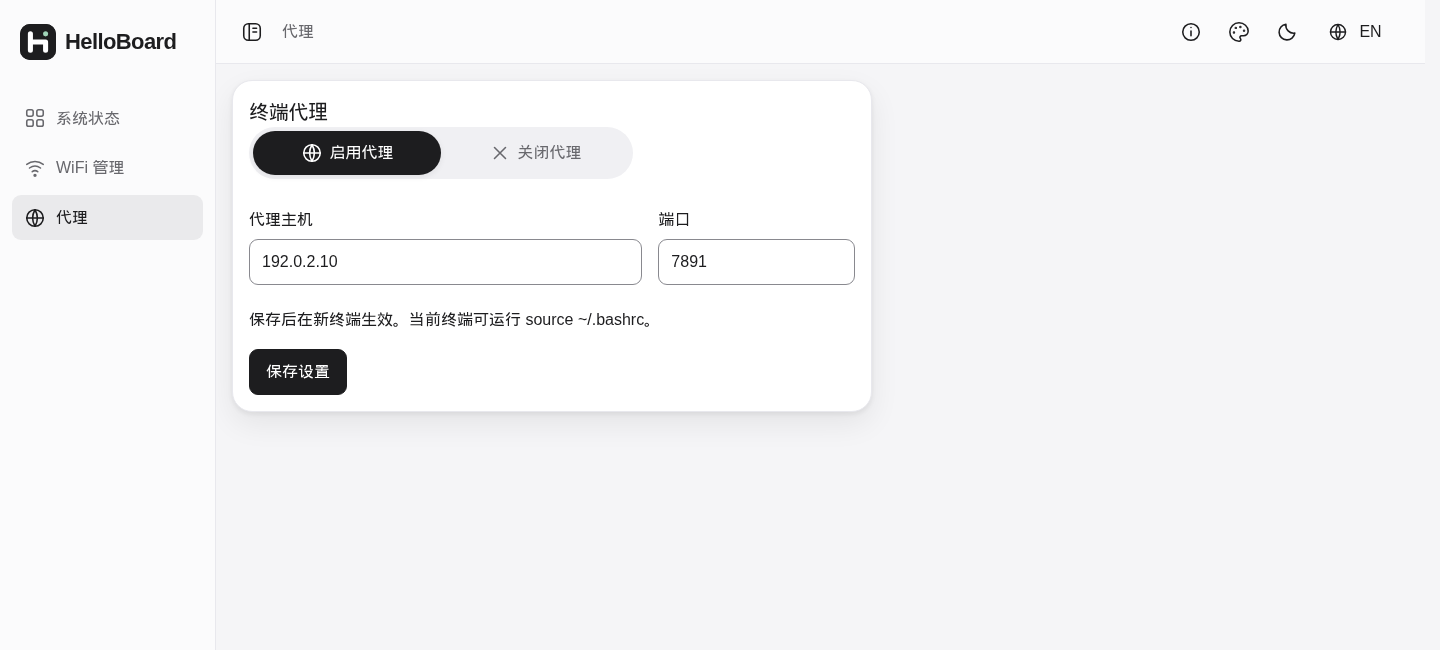
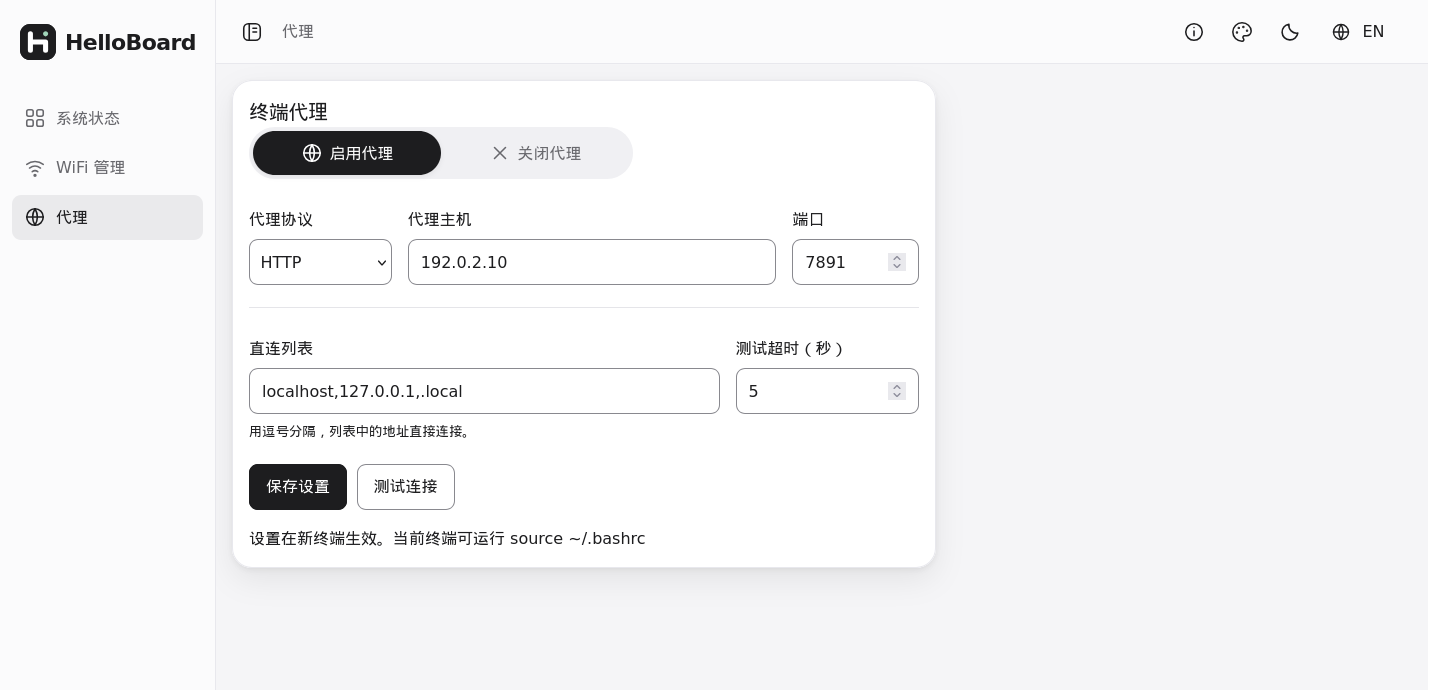
Expand Bash proxy settings and connection testing

diff --git a/templates/proxy.html b/templates/proxy.html
@@ -17,12 +17,32 @@
             {% endfor %}
           </div>
           <div class="proxy-fields">
-            <label><span data-i18n="代理主机">代理主机</span><input id="host" required maxlength="253" value="{{ settings.host }}"></label>
+            {% if settings.protocol is defined %}
+            <label><span data-i18n="代理协议">代理协议</span>
+              <select id="protocol">
+                {% for value, label in [('http', 'HTTP'), ('https', 'HTTPS'), ('socks5h', 'SOCKS5')] %}
+                <option value="{{ value }}"{% if value == settings.protocol %} selected{% endif %}>{{ label }}</option>
+                {% endfor %}
+              </select>
+            </label>
+            {% endif %}
+            <label><span data-i18n="代理主机">代理主机</span><input id="host" maxlength="253" value="{{ settings.host }}" autocomplete="off" spellcheck="false"></label>
             <label><span data-i18n="端口">端口</span><input id="port" type="number" required min="1" max="65535" value="{{ settings.port }}"></label>
           </div>
-          <p class="muted">保存后在新终端生效。当前终端可运行 <code>source ~/.bashrc</code>。</p>
-          <button class="primary-button" type="submit" data-i18n="保存设置">保存设置</button>
-          
+          {% if settings.protocol is defined %}
+          <div class="proxy-advanced">
+            <label><span data-i18n="直连列表">直连列表</span>
+              <input id="bypass" maxlength="512" value="{{ settings.bypass }}" placeholder="localhost,127.0.0.1,.local" aria-describedby="bypass-hint" autocomplete="off" spellcheck="false">
+              <small id="bypass-hint" class="muted" data-i18n="用逗号分隔，列表中的地址直接连接。">用逗号分隔，列表中的地址直接连接。</small>
+            </label>
+            <label><span data-i18n="测试超时（秒）">测试超时（秒）</span><input id="timeout" type="number" required min="3" max="10" value="{{ settings.timeout }}"></label>
+          </div>
+          {% endif %}
+          <div class="proxy-actions">
+            <button class="primary-button" type="submit" data-i18n="保存设置">保存设置</button>
+            <button id="test-connection" class="secondary-button" type="button" data-i18n="测试连接">测试连接</button>
+          </div>
+          <p class="muted"><span data-i18n="设置在新终端生效。当前终端可运行">设置在新终端生效。当前终端可运行</span> <code>source ~/.bashrc</code></p>
         </form>
       </section>
     </main></div>
@@ -39,6 +59,6 @@
       <p id="auth-error" role="alert" class="field-error"></p>
       <div class="dialog-actions"><button type="button" id="cancel" class="secondary-button" data-i18n="取消">取消</button><button type="submit" class="primary-button" data-i18n="验证">验证</button></div>
     </form></dialog>
-    <dialog id="side-panel" class="side-panel"><div class="dialog-heading"><h2 id="panel-title"></h2><button type="button" id="panel-close" class="icon-button" aria-label="关闭">×</button></div><section id="help-content" class="drawer-content">代理设置应用于宿主机用户的 Bash。</section>{% include 'layout_options.html' %}</dialog>
+    <dialog id="side-panel" class="side-panel"><div class="dialog-heading"><h2 id="panel-title"></h2><button type="button" id="panel-close" class="icon-button" aria-label="关闭">×</button></div><section id="help-content" class="drawer-content" data-i18n="代理设置应用于宿主机用户的 Bash。">代理设置应用于宿主机用户的 Bash。</section>{% include 'layout_options.html' %}</dialog>
   </body>
 </html>

diff --git a/static/proxy.js b/static/proxy.js
@@ -31,19 +31,31 @@ async function post(path, body, signal) {
   return data;
 }
 let testRequest;
+let pendingSave;
+const form = el("proxy-form");
+const saveButton = form.querySelector("button[type=submit]");
+const testButton = el("test-connection");
 function cancelTest() {
   testRequest?.abort();
   if (el("proxy-test").open) el("proxy-test").close();
 }
 el("cancel-test").onclick = cancelTest;
 el("proxy-test").addEventListener("cancel", cancelTest);
-async function save() {
-  const submit = el("proxy-form").querySelector("button[type=submit]");
-  if (submit.disabled) return;
-  submit.disabled = true;
+async function applySettings(save) {
+  if (saveButton.disabled) return;
+  const enabled = mode.dataset.mode === "on";
+  const host = el("host").value.trim();
+  el("host").required = enabled || !save;
+  if (!form.reportValidity()) return;
+  const settings = {enabled, host, port: el("port").valueAsNumber};
+  if (el("protocol")) {
+    settings.protocol = el("protocol").value;
+    settings.bypass = el("bypass").value.trim();
+    settings.timeout = el("timeout").valueAsNumber;
+  }
+  saveButton.disabled = testButton.disabled = true;
   try {
-    const settings = {enabled: mode.dataset.mode === "on", host: el("host").value.trim(), port: el("port").valueAsNumber};
-    if (settings.enabled) {
+    if (enabled || !save) {
       testRequest = new AbortController();
       el("proxy-test").showModal();
       try {
@@ -54,21 +66,31 @@ async function save() {
         testRequest = null;
       }
     }
-    await post("bash-proxy", settings);
-    feedback(settings.enabled ? t("Successful · 联网成功，已保存") : t("代理已关闭"));
+    if (save) {
+      await post("bash-proxy", settings);
+      feedback(t(enabled ? "Successful · 联网成功，已保存" : "代理已关闭"));
+    } else feedback(t("代理连接成功"));
   } catch (error) {
     if (error.name === "AbortError") { feedback(t("已取消")); return; }
-    if (error.login) { el("auth-error").textContent = ""; el("login").showModal(); el("password").focus(); }
-    else feedback(error.message);
-  } finally { submit.disabled = false; }
+    if (error.login) {
+      pendingSave = save;
+      el("auth-error").textContent = "";
+      el("login").showModal();
+      el("password").focus();
+    } else feedback(error.message);
+  } finally {
+    saveButton.disabled = testButton.disabled = false;
+  }
 }
-el("proxy-form").onsubmit = event => { event.preventDefault(); save(); };
+form.noValidate = true;
+form.onsubmit = event => { event.preventDefault(); applySettings(true); };
+testButton.onclick = () => applySettings(false);
 el("auth-form").onsubmit = async event => {
   event.preventDefault();
   try {
     await post("authorize", {username: el("username").value, password: el("password").value});
     el("login").close();
-    await save();
+    await applySettings(pendingSave);
   } catch (error) { el("auth-error").textContent = error.message; }
   finally { el("password").value = ""; }
 };

diff --git a/static/style.css b/static/style.css
@@ -1502,11 +1502,32 @@ body.panel-open {
   cursor: default;
 }
 
-.proxy-card { padding: var(--section-space); align-self: start; width: min(100%, 40rem); }
+.proxy-card { padding: var(--section-space); align-self: start; width: min(100%, 44rem); }
 .proxy-card form { display: grid; gap: 1rem; }
-.proxy-fields { display: grid; grid-template-columns: minmax(0, 2fr) minmax(5rem, 1fr); gap: 1rem; }
-.proxy-fields input { width: 100%; margin-top: .4rem; }
-.proxy-card .primary-button { justify-self: start; }
+.proxy-fields, .proxy-advanced { display: grid; gap: 1rem; grid-template-columns: minmax(0, 1fr) minmax(7rem, .39fr); }
+.proxy-fields:has(#protocol) { grid-template-columns: minmax(6rem, .62fr) minmax(0, 1.6fr) minmax(5rem, .55fr); }
+.proxy-advanced { padding-top: 1rem; border-top: 1px solid var(--border); }
+.proxy-fields input, .proxy-advanced input, .proxy-fields select { width: 100%; margin-top: .4rem; }
+.proxy-fields select {
+  height: 46px;
+  border: 1px solid var(--control-border);
+  border-radius: 9px;
+  background: var(--surface);
+  color: var(--text);
+  font: inherit;
+  padding: 0 .65rem;
+}
+.proxy-fields select:focus-visible {
+  outline: none;
+  box-shadow: 0 0 0 3px var(--focus-halo);
+}
+.proxy-advanced small { display: block; margin-top: .4rem; }
+.proxy-actions { display: flex; gap: .6rem; flex-wrap: wrap; }
+.proxy-card form > p { margin: 0; }
+@media (max-width: 520px) {
+  .proxy-fields:has(#protocol) { grid-template-columns: minmax(0, 1fr) minmax(5rem, .55fr); }
+  .proxy-fields:has(#protocol) label:nth-child(2) { grid-column: 1 / -1; grid-row: 2; }
+}
 
 .proxy-card { box-shadow: 0 2px 5px var(--shadow-small), 0 12px 30px var(--shadow-menu); }
 .proxy-card code { font: inherit; }

diff --git a/static/i18n.js b/static/i18n.js
@@ -13,6 +13,11 @@ window.HelloBoardI18n = (() => {
   const english = {
     "关闭代理": "Disable proxy", "点击保存设置以应用": "Save settings to apply",
     "代理": "Proxy", "终端代理": "Terminal proxy", "启用代理": "Enable proxy", "代理主机": "Proxy host", "端口": "Port", "保存设置": "Save settings",
+    "代理协议": "Proxy protocol", "直连列表": "Bypass list",
+    "用逗号分隔，列表中的地址直接连接。": "Use commas to separate addresses that connect directly.",
+    "测试超时（秒）": "Test timeout (s)", "测试连接": "Test connection", "代理连接成功": "Proxy connection succeeded",
+    "设置在新终端生效。当前终端可运行": "Settings apply to new terminals. In the current terminal, run",
+    "代理设置应用于宿主机用户的 Bash。": "Proxy settings apply to the host user's Bash shell.",
     "深色模式": "Dark mode",
     "切换为深色模式": "Switch to dark mode",
     "切换为浅色模式": "Switch to light mode",

diff --git a/tools/bash_proxy.py b/tools/bash_proxy.py
@@ -1,5 +1,6 @@
 """User-level HelloBoard socket worker. Only edit this user's Bash startup files."""
 import fcntl
+from ipaddress import ip_network
 import json
 import os
 from pathlib import Path
@@ -11,6 +12,18 @@ import tempfile
 SOURCE = '[ -r "$HOME/.proxy.sh" ] && source "$HOME/.proxy.sh"'
 LEGACY = {"source ~/.proxy.sh", "source ~/.proxyt.sh", SOURCE}
 MARK = "# Managed by HelloBoard"
+PROTOCOLS = {"http", "https", "socks5h"}
+DOMAIN = re.compile(r"[A-Za-z0-9](?:[A-Za-z0-9-]{0,61}[A-Za-z0-9])?")
+
+def valid_host(value):
+    return 0 < len(value) <= 253 and all(DOMAIN.fullmatch(part) for part in value.split("."))
+
+def valid_bypass(value):
+    try:
+        ip_network(value, strict=False)
+    except ValueError:
+        return value == "*" or valid_host(value.removeprefix("."))
+    return re.fullmatch(r"[0-9a-fA-F:./]+", value) is not None
 
 def read(path):
     return path.read_text() if path.exists() else ""
@@ -29,29 +42,58 @@ def handle(home, data):
             match = re.search(r'^' + name + r'="([^"\n]*)"$', old, re.M)
             return match.group(1) if match else fallback
         return dict(host=field("PROXY_HOST", ""), port=field("PROXY_PORT", "7891"),
+                    protocol=field("PROXY_PROTOCOL", "http"), bypass=field("PROXY_BYPASS", ""),
+                    timeout=field("PROXY_TIMEOUT", "5"),
                     enabled=any(line.strip() in LEGACY for line in startup.splitlines()) and
                     bool(old) and "# disabled" not in old)
     host, port, enabled = data.get("host"), data.get("port"), data.get("enabled")
-    if (data.get("action") not in ("save", "test") or type(enabled) is not bool or
-        not isinstance(host, str) or len(host) > 253 or
-        not all(re.fullmatch(r"[A-Za-z0-9](?:[A-Za-z0-9-]{0,61}[A-Za-z0-9])?", part) for part in host.split(".")) or
-        type(port) is not int or not 1 <= port <= 65535):
+    action = data.get("action")
+    if (action not in ("save", "test") or type(enabled) is not bool or not isinstance(host, str)
+        or (not valid_host(host) and (host or enabled or action == "test"))
+        or type(port) is not int or not 1 <= port <= 65535):
         raise ValueError("请输入有效的主机名、IPv4 地址和端口。")
-    if data["action"] == "test":
+    protocol = data.get("protocol", "http")
+    bypass = data.get("bypass", "")
+    timeout = data.get("timeout", 5)
+    if not isinstance(protocol, str) or protocol not in PROTOCOLS:
+        raise ValueError("请选择 HTTP、HTTPS 或 SOCKS5 代理。")
+    if type(timeout) is not int or not 3 <= timeout <= 10:
+        raise ValueError("测试超时需为 3–10 秒。")
+    if not isinstance(bypass, str) or len(bypass) > 512:
+        raise ValueError("直连列表最多 512 个字符。")
+    entries = [entry.strip() for entry in bypass.split(",") if entry.strip()]
+    if not all(valid_bypass(entry) for entry in entries):
+        raise ValueError("直连列表需填写主机名、IP 或网段，并用逗号分隔。")
+    bypass = ",".join(entries)
+
+    proxy_url = f"{protocol}://{host}:{port}"
+    if action == "test":
         result = subprocess.run(["curl", "--disable", "--noproxy", "", "--silent", "--fail",
-                                 "--location", "--connect-timeout", "3", "--max-time", "5",
-                                 "--proxy", f"http://{host}:{port}", "http://ipinfo.io"],
+                                 "--location", "--connect-timeout", "3", "--max-time", str(timeout),
+                                 "--proxy", proxy_url, "http://ipinfo.io"],
                                 stdout=subprocess.DEVNULL, stderr=subprocess.DEVNULL)
         if result.returncode:
             raise ValueError("Error · 代理联网测试失败，请检查地址和端口。")
         return {"ok": True}
-    script_text = f'#!/bin/bash\n{MARK}\nPROXY_HOST="{host}"\nPROXY_PORT="{port}"\n'
+    script_text = (f'#!/bin/bash\n{MARK}\nPROXY_HOST="{host}"\nPROXY_PORT="{port}"\n'
+                   f'PROXY_PROTOCOL="{protocol}"\nPROXY_BYPASS="{bypass}"\nPROXY_TIMEOUT="{timeout}"\n')
     clear = "unset http_proxy https_proxy HTTP_PROXY HTTPS_PROXY"
+    script_text += (
+        'if [[ -n "${_helloboard_bypass-}" ]]; then\n'
+        '    [[ "${no_proxy-}" != "$_helloboard_bypass" ]] || unset no_proxy\n'
+        '    [[ "${NO_PROXY-}" != "$_helloboard_bypass" ]] || unset NO_PROXY\n'
+        '    unset _helloboard_bypass\n'
+        'fi\n'
+    )
     if enabled:
-        script_text += ('if curl --disable --noproxy "" --silent --fail --proxy "http://${PROXY_HOST}:${PROXY_PORT}" '
-                        '--connect-timeout 3 --max-time 5 --location http://ipinfo.io >/dev/null 2>&1; then\n'
-                        '    export http_proxy="http://${PROXY_HOST}:${PROXY_PORT}"\n'
+        script_text += ('if curl --disable --noproxy "" --silent --fail --proxy "${PROXY_PROTOCOL}://${PROXY_HOST}:${PROXY_PORT}" '
+                        '--connect-timeout 3 --max-time "$PROXY_TIMEOUT" --location http://ipinfo.io >/dev/null 2>&1; then\n'
+                        '    export http_proxy="${PROXY_PROTOCOL}://${PROXY_HOST}:${PROXY_PORT}"\n'
                         '    export https_proxy="$http_proxy" HTTPS_PROXY="$http_proxy"\n'
+                        '    if [[ -n "$PROXY_BYPASS" ]]; then\n'
+                        '        export no_proxy="$PROXY_BYPASS" NO_PROXY="$PROXY_BYPASS"\n'
+                        '        _helloboard_bypass="$PROXY_BYPASS"\n'
+                        '    fi\n'
                         '    unset HTTP_PROXY\nelse\n    ' + clear + '\nfi\n')
     else:
         script_text += "# disabled\n" + clear + "\n"
@@ -64,7 +106,7 @@ def handle(home, data):
     replace(script, script_text, 0o700)
     if clean != startup:
         replace(rc, clean, (rc.stat().st_mode & 0o777) if rc.exists() else 0o600)
-    return dict(host=host, port=port, enabled=enabled)
+    return dict(host=host, port=port, enabled=enabled, protocol=protocol, bypass=bypass, timeout=timeout)
 
 if __name__ == "__main__":
     try:

diff --git a/wifi.py b/wifi.py
@@ -115,7 +115,7 @@ def create_app(controller, *, authenticator=None, metrics=None, processes=None, 
 
     def proxy_call(payload):
         with socket.socket(socket.AF_UNIX) as client:
-            client.settimeout(8)
+            client.settimeout(12)
             client.connect(proxy_socket)
             client.sendall(json.dumps(payload).encode() + b'\n')
             with client.makefile('rb') as stream:
@@ -142,11 +142,15 @@ def create_app(controller, *, authenticator=None, metrics=None, processes=None, 
         if not isinstance(data, dict):
             raise ValueError('配置格式不正确。')
         settings = dict(host=data.get('host'), port=data.get('port'), enabled=data.get('enabled'))
+        for key in ('protocol', 'bypass', 'timeout'):
+            if key in data:
+                settings[key] = data[key]
         if request.path.endswith('/test'):
             proxy_call(dict(action='test', **settings))
             session['proxy_test'] = settings
             return jsonify(ok=True)
-        if settings['enabled'] and session.pop('proxy_test', None) != settings:
+        tested = session.pop('proxy_test', None)
+        if settings['enabled'] and tested != settings:
             proxy_call(dict(action='test', **settings))
         return jsonify(proxy_call(dict(action='save', **settings)))
 

diff --git a/README.md b/README.md
@@ -20,7 +20,7 @@
 | Process management | Search and sort processes by CPU or memory. On supported Linux deployments, verify your system account to terminate selected processes. |
 | Wi-Fi and device hotspot | Scan for networks, reconnect to saved networks, and switch between Wi-Fi and hotspot mode on compatible NetworkManager devices. |
 | Setup hotspot | On first startup with host Wi-Fi control, give NetworkManager 60 seconds by default to join a network. If it cannot connect in time, open the setup hotspot and retain the saved configuration. |
-| Bash proxy | Test an HTTP proxy before saving it to the host user's Bash configuration, and turn it off from the same page. Requires the host proxy service. |
+| Bash proxy | Configure HTTP, HTTPS, or SOCKS5, set a direct-connection list and test timeout, then test or save the host user's Bash settings. Requires the host proxy service. |
 | Responsive interface | Use the dashboard on desktop or mobile in English or Chinese, with light and dark themes and compact or spacious layouts. |
 
 HelloBoard uses Flask, Waitress, and browser-native HTML, CSS, and JavaScript. It serves its fonts and icons locally. See the benchmark summary for the sampling design and historical memory and transfer measurements. [Benchmark summary](docs/benchmarks.md)
@@ -41,7 +41,9 @@ HelloBoard uses Flask, Waitress, and browser-native HTML, CSS, and JavaScript. I
 
 ### Bash proxy
 
-![Bash proxy page with the enable switch, host, port, and save button](docs/images/proxy-settings.png)
+![Bash proxy page with protocol, host, port, bypass list, timeout, and test controls](docs/images/proxy-settings.png)
+
+**Test connection** checks the proxy without writing any settings. Saving an enabled proxy checks connectivity through `http://ipinfo.io` before updating the host user's Bash. Enter comma-separated hosts or addresses in the bypass list to connect to them directly.
 
 ### Mobile layout
 
